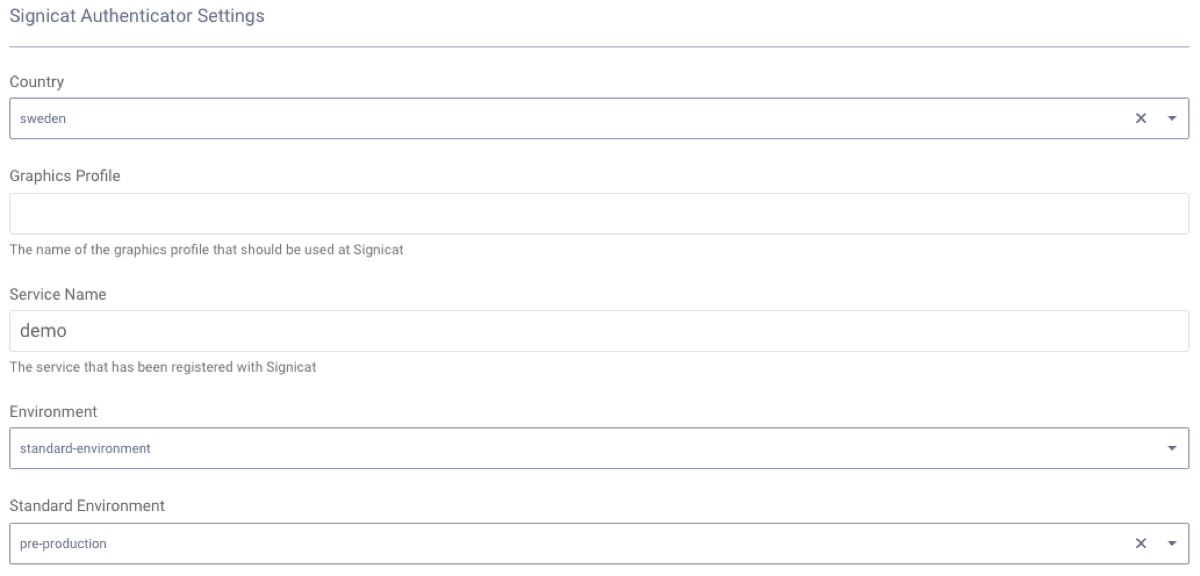
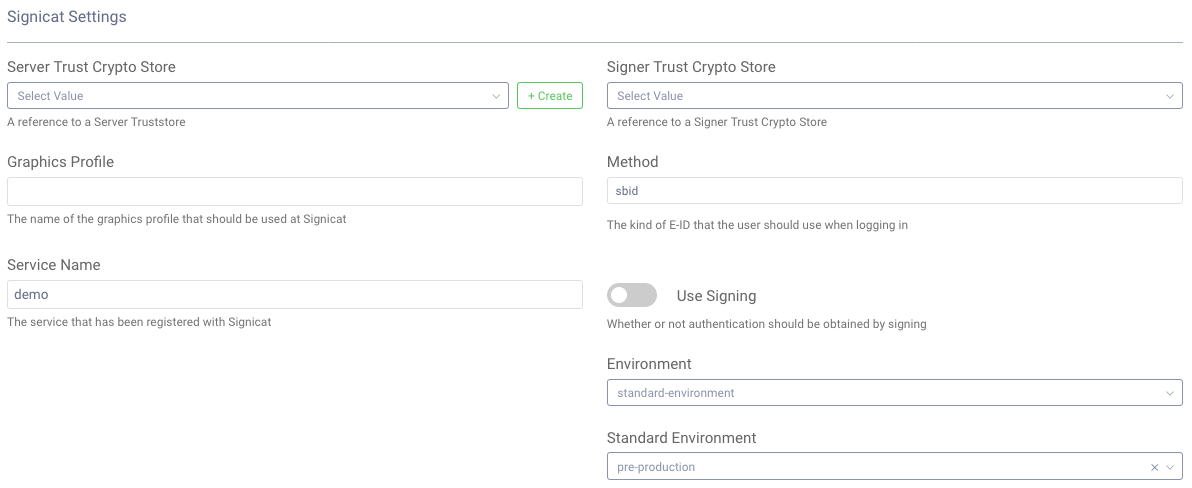
update docs

diff --git a/README.rst b/README.rst
@@ -17,15 +17,13 @@ Requirements for Building from Source
 """""""""""""""""""""""""""""""""""""
 
 The source code is written entirely in `Kotlin <http://kotlinlang.org/>`_. It can be compiled using Maven 3.
-For this to succeed, however, the `Signicat Connector for Java <https://support.signicat.com/display/S2/Signicat+Connector+for+Java>`_ needs to be installed into a Maven repository which is accessible during compilation.
-A stub implementation of that library is available under the ``java-connector/`` directory. Run ``mvn -f java-connector/pom.xml install`` to install the stub JAR in the local Maven repository.
-
-Refer to the `Maven guide for information about installing third-party JARs <https://maven.apache.org/guides/mini/guide-3rd-party-jars-local.html>`_. Once the Signicat Connector's JAR is installed, the project can be compiled from a shell by issuing a command like this: ``mvn package``.
+For this to succeed, however, the `Signicat Connector for Java`_ needs to be installed into a Maven repository which is accessible during compilation.
+A stub implementation of that library is available under the ``java-connector/`` directory. Run ``mvn -f java-connector/pom.xml install`` to install the stub JAR in the local Maven repository. Refer to the `Maven guide for information about installing third-party JARs <https://maven.apache.org/guides/mini/guide-3rd-party-jars-local.html>`_. Once the Signicat Connector's JARs are installed, the project can be compiled from a shell by issuing a command like this: ``mvn package``.
 
 Installation
 ~~~~~~~~~~~~
 
-To install this plug-in, either download a binary version available from the `releases section of this project's GitHub repository <https://github.com/curityio/signicat-authenticator/releases>`_ or compile it from source (as described above). If you compiled the plug-in from source, the package will be placed in the ``target`` subdirectory. The resulting JAR file or the one downloaded from GitHub needs to placed in the directory ``${IDSVR_HOME}/usr/share/plugins/signicat``. (The name of the last directory, ``signicat``, which is the plug-in group, is arbitrary and can be anything.) All of the dependent JAR files must be placed in this directory as well. These include:
+To install this plug-in, either download a binary version available from the `releases section of this project's GitHub repository <https://github.com/curityio/signicat-authenticator/releases>`_ or compile it from source (as described above). If you compiled the plug-in from source, the package will be placed in the ``target/libs`` subdirectory. The resulting JAR file or the one downloaded from GitHub needs to placed in the directory ``${IDSVR_HOME}/usr/share/plugins/signicat``. (The name of the last directory, ``signicat``, which is the plug-in group, is arbitrary and can be anything.) All of the dependent JAR files must be placed in this directory as well. These include:
 
 * signicat-client-lib-4.0.1.jar
 * signicat-opensaml-1.1-PATCH-6.jar
@@ -33,7 +31,7 @@ To install this plug-in, either download a binary version available from the `re
 * commons-logging-1.2.jar
 * xmlsec-1.5.8.jar
 
-All of these JAR files can be obtained by downloading the `Signicat Connector for Java <https://developer.signicat.com/documentation/other/signicat-connector-for-java/>`_. Apache Commons Codec and Apache Santuario can also be downloaded from Maven central or their respective project web sites.
+All of these JAR files can be obtained by downloading the `Signicat Connector for Java`_. Apache Commons Codec and Apache Santuario can also be downloaded from Maven central or their respective project web sites.
 
 .. note::
 
@@ -50,10 +48,10 @@ During development of the plug-in, it is very easy to copy the plug-in JAR and i
 
 .. code:: bash
 
-    mvn install dependency:copy-dependencies \
+    mvn dependency:copy-dependencies \
         -DincludeScope=runtime \
-        -DoutputDirectory=$IDSVR_HOME/lib/plugins/signicat && \
-        cp target/identityserver.plugins.authenticators.signicat-*.jar $IDSVR_HOME/lib/plugins/signicat
+        -DoutputDirectory=$IDSVR_HOME/usr/share/plugins/signicat && \
+        cp target/libs/identityserver.plugins.authenticators.signicat-*.jar $IDSVR_HOME/usr/share/plugins/signicat
 
 Because the server must be restarted after this, it can be quite tedious and time consuming. For that reason, it is better to use `Intellij's HotSwap capability <https://www.jetbrains.com/help/idea/reloading-classes.html>`_ to reload the classes after compilation. This will allow a developer to HotSwap changes without requiring a restart. If it fails to HotSwap some change, however, the above technique can be used.
 
@@ -78,7 +76,7 @@ The easiest way to configure a new Signicat authenticator is using the Curity ad
 
         The Signicat-specific configuration is generated dynamically based on the `configuration model defined in the Kotlin interface <https://github.com/curityio/signicat-authenticator/blob/master/src/main/kotlin/io/curity/identityserver/plugin/signicat/config/SignicatAuthenticatorPluginConfig.kt>`_.
 
-6. From the ``Country`` dropdown box, pick the country's kind of E-ID that should be used. For example, pick ``sweden`` to use Swedish BankID or ``denmark`` to use NemID.
+6. From the ``Method`` combobox, pick the country's kind of E-ID that should be used or type one of your own. For example, pick ``sbid`` to use Swedish BankID, ``nemid`` to use NemID, or ``cust`` for some custom E-ID method provided by Signicat.
 7. Enter the ``Service Name`` that you have registered with Signicat or use the default of ``demo`` for testing.
 8. From the ``Environment`` dropdown box, select either ``standard-environment`` or ``custom-environment``. The former should be used if you are not using a custom domain (e.g., ``signicat.example.com``). If not, then select ``standard-environment`` and pick either ``production`` or ``pre-production``. ``pre-production`` will cause certain test certificates to be used and warnings to be logged in the server log.
 9. Optionally, enter the name of a `graphics profile <https://support.signicat.com/display/S2/Graphical+profiles%2C+fonts+and+styling>`_ in the ``Graphics Profile`` text field.
@@ -103,3 +101,5 @@ More Information
 Please visit `curity.io <https://curity.io/>`_ for more information about the Curity Identity Server.
 
 Copyright (C) 2018 Curity AB.
+
+.. _Signicat Connector for Java: https://developer.signicat.com/documentation/other/signicat-connector-for-java/
